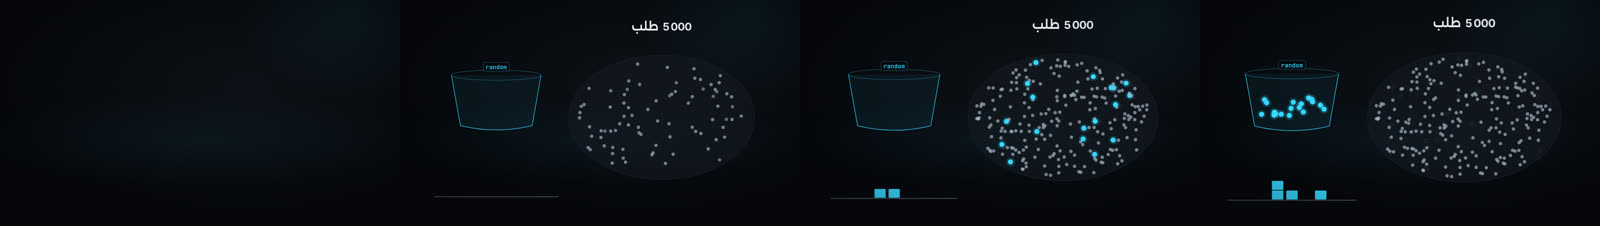
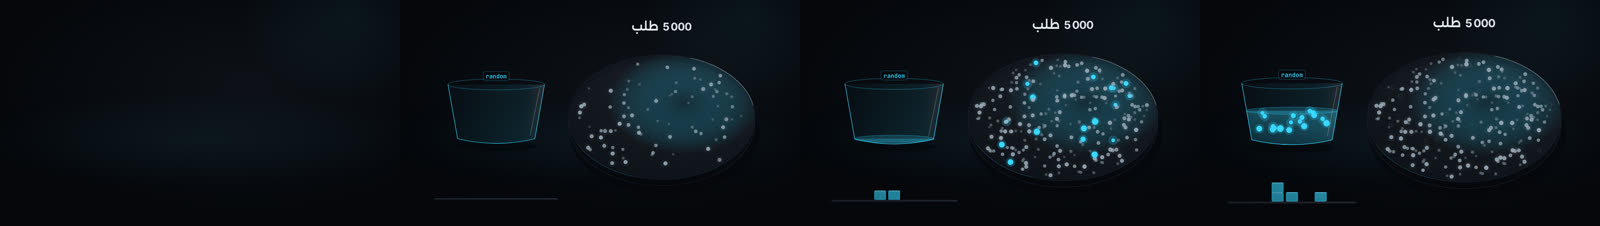
P7 dom-b: SampleScoop finished (glass dish, depth dots, beaker, assembling sampling distribution; D2: population 5 000 only; snap PASS det 0 qa 0, baselines pending-critic; perf lite 0.058 / standard 0.105 / hero 0.075 box s/frame; Arabic QA PASS)
Claude-Session: https://claude.ai/code/session_01VrU9wxU8GmuhdhWAAHnnQ8

diff --git a/studio/src/components/SampleScoop/SampleScoop.tsx b/studio/src/components/SampleScoop/SampleScoop.tsx
@@ -7,6 +7,10 @@
 // Numbers: only the population label (`population`, with its ref) is shown. The dots are decorative (D2 ruling 2): the dot
 // count stands for no quantity, `sample` is never displayed and does not set the dot count (CR-009: sample optional),
 // the histogram has no axis and no digits. Determinism: random(seed) only.
+// Look (04 1.2 / ADR-003 LK-F): a glass dish with a key rim light from the upper right, a seeded depth value per dot (size, tone and
+// halo of the near ones), a glass beaker whose liquid rises as the scoop lands, and the dots return to the pool after each mean
+// has dropped (a sample is put back: the draws are independent). DOM + SVG only (no WebGL): every FX tier renders it; the tier
+// changes the dot count (<= FX[tier].particles) and the glow radii.
 import React from 'react';
 import {random} from 'remotion';
 import {C, FONT, SIZE} from '../../tokens';
@@ -15,17 +19,17 @@ import {ease, presetFrames} from '../../type/reveal';
 import type {DcComponent, DcProps} from '../../spec/types';
 import type {Props} from './schema';
 import {isArabic} from '../../type/arabic';
-import {At, Chip, FitLabel, Stage, Svg, f24, fmtCount, glowBox, lerp, prog, progN, rim, type Pt} from '../_dom-b/kit';
+import {At, Chip, FitLabel, Stage, Svg, clamp01, dPath, f24, fmtCount, glowBox, lerp, partial, prog, progN, type Pt} from '../_dom-b/kit';
 
-const DOTS = 240; // decorative population sprites (<= FX.lite.particles); not a quantity
+const dotsFor = (tier: string) => (tier === 'lite' ? 240 : 360); // decorative population sprites (<= FX[tier].particles); not a quantity
 const PICK = 18; // decorative dots per scoop; not the sample size
 const BINS = 9;
 const STRATA = 3;
 const CLUSTERS = 8;
 
-type Dot = {p: Pt; v: number; band: number; cl: number};
+type Dot = {p: Pt; v: number; band: number; cl: number; z: number};
 
-const buildPop = (seed: number, method: Props['method'], c: Pt, rx: number, ry: number): {dots: Dot[]; centres: Pt[]} => {
+const buildPop = (seed: number, method: Props['method'], c: Pt, rx: number, ry: number, DOTS: number): {dots: Dot[]; centres: Pt[]} => {
   const r = (k: string) => random(`scoop:${seed}:${k}`);
   const centres: Pt[] = Array.from({length: CLUSTERS}, (_, i) => {
     const a = (2 * Math.PI * i) / CLUSTERS + r(`ca${i}`) * 0.5;
@@ -46,13 +50,14 @@ const buildPop = (seed: number, method: Props['method'], c: Pt, rx: number, ry: 
       cl = -1;
     }
     const band = Math.min(STRATA - 1, Math.floor(((p.y - (c.y - ry)) / (2 * ry)) * STRATA));
-    return {p, v: (p.x - (c.x - rx)) / (2 * rx), band, cl};
+    return {p, v: (p.x - (c.x - rx)) / (2 * rx), band, cl, z: r(`z${i}`)};
   });
   return {dots, centres};
 };
 
 /** Indices drawn in scoop k (deterministic per seed). */
 const drawIdx = (dots: Dot[], method: Props['method'], seed: number, k: number): number[] => {
+  const DOTS = dots.length;
   const r = (s: string) => random(`scoop:${seed}:draw${k}:${s}`);
   if (method === 'stratified') {
     const out: number[] = [];
@@ -87,12 +92,14 @@ export const SampleScoopView: React.FC<DcProps<Props>> = ({props, ctx}) => {
   const pc = {x: W * 0.68, y: labelH + (H - labelH) * 0.46};
   const rx = W * 0.27;
   const ry = (H - labelH) * 0.36;
-  const {dots, centres} = buildPop(props.seed, props.method, pc, rx, ry);
+  const {dots, centres} = buildPop(props.seed, props.method, pc, rx, ry, dotsFor(fx.id));
+  const gid = `sc${ctx.id.replace(/[^a-zA-Z0-9]/g, '')}`;
+  const gk = 1 + ctx.mod.glow;
   // cup + histogram (left)
-  const cupC = {x: W * 0.2, y: labelH + (H - labelH) * 0.3};
-  const cupW = Math.min(W * 0.26, 470);
+  const cupC = {x: W * 0.2, y: labelH + (H - labelH) * 0.36};
+  const cupW = Math.min(W * 0.28, 500);
   const cupH = cupW * 0.8;
-  const histY = labelH + (H - labelH) * 0.92;
+  const histY = labelH + (H - labelH) * 0.93;
   const histW = Math.min(W * 0.36, 640);
   const binW = histW / BINS;
   const blockH = Math.max(14, binW * 0.62);
@@ -114,7 +121,7 @@ export const SampleScoopView: React.FC<DcProps<Props>> = ({props, ctx}) => {
   const cupSlot = (j: number, m: number): Pt => {
     const r = (s: string) => random(`scoop:${props.seed}:cup:${j}:${s}`);
     const u = (j + 0.5) / m;
-    return {x: cupC.x + (u - 0.5) * cupW * 0.7 + (r('x') - 0.5) * cupW * 0.08, y: cupC.y + cupH * 0.12 + r('y') * cupH * 0.26};
+    return {x: cupC.x + (u - 0.5) * cupW * 0.7 + (r('x') - 0.5) * cupW * 0.08, y: cupC.y + cupH * 0.14 + r('y') * cupH * 0.26};
   };
   const dotR = Math.max(4, Math.min(W, H) * 0.0085);
   // histogram stacks
@@ -124,6 +131,13 @@ export const SampleScoopView: React.FC<DcProps<Props>> = ({props, ctx}) => {
     stacks.push({bin: d.bin, level: level[d.bin], t: d.t0 + drop});
     level[d.bin] += 1;
   }
+  // the active scoop: lift (m), and the return to the pool once its mean has dropped (not after the last draw)
+  const ai = active ? draws.indexOf(active) : -1;
+  const hasNext = ai >= 0 && ai < draws.length - 1;
+  const lq = active ? progN(ctx, active.t0 + lift, morph, ease.camera) : 0;
+  const rq = active && hasNext ? progN(ctx, active.t0 + drop + f24(2, fps), f24(9, fps), ease.camera) : 0;
+  const m = lq * (1 - rq);
+  const held = active ? clamp01(progN(ctx, active.t0, presetFrames('label', fps))) * (1 - rq) : 0;
   // the number is one LTR isolate; an Arabic unit follows it outside the isolate, a Latin unit stays inside (rule U1)
   const popText = props.population ? (() => {
     const n = fmtCount(props.population.value, props.population.decimals ?? 0);
@@ -131,12 +145,64 @@ export const SampleScoopView: React.FC<DcProps<Props>> = ({props, ctx}) => {
     return !u ? `⟦${n}⟧` : isArabic(u) ? `⟦${n}⟧ ${u}` : `⟦${n} ${u}⟧`;
   })() : null;
   const METHOD: Record<Props['method'], string> = {random: 'random', stratified: 'stratified', systematic: 'systematic', cluster: 'cluster'};
+  // dish geometry (a glass dish: floor shadow, side wall, top face, key rim light from the upper right)
+  const wall = ry * 0.1;
+  const rimArc = (a0: number, a1: number, n = 18) =>
+    dPath(Array.from({length: n + 1}, (_, i) => {
+      const a = lerp(a0, a1, i / n);
+      return {x: pc.x + Math.cos(a) * rx, y: pc.y + Math.sin(a) * ry};
+    }));
+  const order = dots.map((d, i) => ({i, z: d.z})).sort((a, b) => a.z - b.z || a.i - b.i);
+  // beaker geometry
+  const cy0 = cupC.y - cupH * 0.2;
+  const cy1 = cupC.y + cupH * 0.5;
+  const topHW = cupW / 2;
+  const botHW = cupW * 0.4;
+  const hwAt = (y: number) => lerp(topHW, botHW, (y - cy0) / (cy1 - cy0));
+  const liqTop = cy1 - cupH * 0.36 * m;
+  const liqSurf = liqTop <= cy1 - 2;
+  const lastStack = stacks.filter((s) => t >= s.t).pop();
+  const flash = lastStack ? 1 - clamp01((t - lastStack.t) / f24(6, fps)) : 0;
 
   return (
     <Stage ctx={ctx}>
       <Svg w={W} h={H}>
-        {/* the pool */}
-        <ellipse cx={pc.x} cy={pc.y} rx={rx} ry={ry} fill={`${C.panel}${hex(0.55)}`} stroke={C.grid} strokeWidth={2} opacity={ent} />
+        <defs>
+          <radialGradient id={`${gid}d`} cx="0.62" cy="0.38" r="0.75">
+            <stop offset="0" stopColor={C.signal} stopOpacity={0.12} />
+            <stop offset="0.55" stopColor={C.panel} stopOpacity={0.7} />
+            <stop offset="1" stopColor={C.ground} stopOpacity={0.92} />
+          </radialGradient>
+          <linearGradient id={`${gid}w`} x1="0" y1="0" x2="0" y2="1">
+            <stop offset="0" stopColor={C.panel} stopOpacity={0.95} />
+            <stop offset="1" stopColor={C.void} stopOpacity={0.95} />
+          </linearGradient>
+          <linearGradient id={`${gid}g`} x1="0" y1="0" x2="1" y2="0">
+            <stop offset="0" stopColor={C.signal} stopOpacity={0.03} />
+            <stop offset="0.8" stopColor={C.signal} stopOpacity={0.1} />
+            <stop offset="1" stopColor={C.ink} stopOpacity={0.14} />
+          </linearGradient>
+          <linearGradient id={`${gid}l`} x1="0" y1="0" x2="0" y2="1">
+            <stop offset="0" stopColor={C.signal} stopOpacity={0.3} />
+            <stop offset="1" stopColor={C.signal} stopOpacity={0.12} />
+          </linearGradient>
+          <clipPath id={`${gid}c`}>
+            <ellipse cx={pc.x} cy={pc.y} rx={rx} ry={ry} />
+          </clipPath>
+        </defs>
+        {/* the dish */}
+        <ellipse cx={pc.x + rx * 0.03} cy={pc.y + wall + ry * 0.16} rx={rx * 1.02} ry={ry * 0.98} fill={C.void} opacity={ent * 0.7} />
+        <ellipse cx={pc.x} cy={pc.y + wall} rx={rx} ry={ry} fill={`url(#${gid}w)`} stroke={C.grid} strokeWidth={2} opacity={ent} />
+        <ellipse cx={pc.x} cy={pc.y} rx={rx} ry={ry} fill={`url(#${gid}d)`} stroke={C.grid} strokeWidth={2} opacity={ent} />
+        <path d={rimArc(-1.25, -0.2)} fill="none" stroke={C.ink} strokeOpacity={0.4} strokeWidth={3} strokeLinecap="round" opacity={ent} />
+        <path d={rimArc(1.9, 2.7)} fill="none" stroke={C.signal} strokeOpacity={0.22} strokeWidth={2} strokeLinecap="round" opacity={ent} />
+        {props.method === 'stratified' ? (
+          <g clipPath={`url(#${gid}c)`} opacity={ent}>
+            {Array.from({length: STRATA}, (_, b) => (
+              <rect key={b} x={pc.x - rx} y={pc.y - ry + (b * 2 * ry) / STRATA} width={rx * 2} height={(2 * ry) / STRATA} fill={C.violet} fillOpacity={b % 2 ? 0.0 : 0.08} />
+            ))}
+          </g>
+        ) : null}
         {props.method === 'stratified'
           ? Array.from({length: STRATA - 1}, (_, b) => {
               const y = pc.y - ry + ((b + 1) * 2 * ry) / STRATA;
@@ -146,55 +212,88 @@ export const SampleScoopView: React.FC<DcProps<Props>> = ({props, ctx}) => {
           : null}
         {props.method === 'cluster'
           ? centres.map((c, i) => {
-              const hot = active && active.list.some((j) => dots[j].cl === i) && t >= active.t0;
-              return <ellipse key={i} cx={c.x} cy={c.y} rx={rx * 0.2} ry={ry * 0.2} fill="none" stroke={C.violet} strokeWidth={hot ? 3 : 1.5} opacity={ent * (hot ? 1 : 0.6)} />;
+              const hot = !!active && active.list.some((j) => dots[j].cl === i);
+              return <ellipse key={i} cx={c.x} cy={c.y} rx={rx * 0.2} ry={ry * 0.2} fill={C.violet} fillOpacity={hot ? 0.16 * held + 0.05 : 0.05} stroke={C.violet} strokeWidth={hot ? 3 : 1.5} opacity={ent * (hot ? 1 : 0.6)} />;
             })
           : null}
-        {dots.map((d, i) => {
+        {/* systematic: the sampling frame is a listed order; the k-th stride is traced through it */}
+        {props.method === 'systematic' && active && held > 0
+          ? (() => {
+              const pts = [...active.list].sort((a, b) => dots[a].band - dots[b].band || dots[a].v - dots[b].v).map((i) => dots[i].p);
+              return <path d={dPath(partial(pts, held))} fill="none" stroke={C.signal} strokeOpacity={0.3 * (1 - lq)} strokeWidth={1.5} strokeDasharray="3 7" />;
+            })()
+          : null}
+        {order.map(({i}) => {
+          const d = dots[i];
           const eI = prog(ctx, ctx.at + Math.floor((i % 24) * (fps / 24)), 'label');
-          const picked = active && active.idx.has(i);
-          if (!picked) return <circle key={i} cx={d.p.x} cy={d.p.y} r={dotR} fill={C.ink2} opacity={eI * 0.7} />;
+          const near = d.z > 0.72;
+          const r0 = dotR * (0.7 + 0.6 * d.z);
+          const picked = !!active && active.idx.has(i);
+          if (!picked || held <= 0) {
+            return (
+              <g key={i} opacity={eI}>
+                {near ? <circle cx={d.p.x} cy={d.p.y} r={r0 * 2.1} fill={C.ink2} opacity={0.05} /> : null}
+                <circle cx={d.p.x} cy={d.p.y} r={r0} fill={d.z > 0.4 ? C.ink2 : C.ink3} opacity={0.4 + 0.5 * d.z} />
+              </g>
+            );
+          }
           const a = active as (typeof draws)[number];
-          const hq = progN(ctx, a.t0, presetFrames('label', fps));
-          const mq = progN(ctx, a.t0 + lift, morph, ease.camera);
           const j = a.list.indexOf(i);
           const to = cupSlot(j, a.list.length);
-          const x = lerp(d.p.x, to.x, mq);
-          const y = lerp(d.p.y, to.y, mq) - Math.sin(mq * Math.PI) * ry * 0.35;
+          const x = lerp(d.p.x, to.x, m);
+          const y = lerp(d.p.y, to.y, m) - Math.sin(m * Math.PI) * ry * 0.35;
           return (
             <g key={i}>
-              {mq > 0 ? <circle cx={d.p.x} cy={d.p.y} r={dotR} fill="none" stroke={C.ink3} strokeWidth={1} opacity={0.6} /> : null}
-              <circle cx={x} cy={y} r={dotR * (1 + 0.5 * hq)} fill={C.signal} opacity={eI} />
-              <circle cx={x} cy={y} r={dotR * 2.6} fill={C.signal} opacity={0.18 * hq} />
+              {m > 0 ? <circle cx={d.p.x} cy={d.p.y} r={r0} fill="none" stroke={C.ink3} strokeWidth={1} opacity={0.6} /> : null}
+              <circle cx={x} cy={y} r={dotR * 2.8} fill={C.signal} opacity={0.2 * held * gk} />
+              <circle cx={x} cy={y} r={r0 * (1 + 0.5 * held)} fill={C.signal} opacity={eI} />
             </g>
           );
         })}
-        {/* the cup (glass beaker) */}
+        {/* the beaker: liquid behind the dots' lens, glass front over them */}
+        <ellipse cx={cupC.x} cy={cy1 + cupH * 0.1} rx={botHW * 1.05} ry={cupH * 0.06} fill={C.void} opacity={ent * 0.65} />
         <g opacity={ent}>
           <path
-            d={`M${cupC.x - cupW / 2} ${cupC.y - cupH * 0.2} L${cupC.x - cupW * 0.4} ${cupC.y + cupH * 0.5} Q${cupC.x} ${cupC.y + cupH * 0.62} ${cupC.x + cupW * 0.4} ${cupC.y + cupH * 0.5} L${cupC.x + cupW / 2} ${cupC.y - cupH * 0.2}`}
-            fill={`${C.signal}${hex(0.06)}`}
+            d={`M${cupC.x - topHW} ${cy0} L${cupC.x - botHW} ${cy1} Q${cupC.x} ${cy1 + cupH * 0.12} ${cupC.x + botHW} ${cy1} L${cupC.x + topHW} ${cy0}`}
+            fill={`url(#${gid}g)`}
             stroke={C.signal}
             strokeWidth={2.5}
             strokeLinejoin="round"
           />
-          <ellipse cx={cupC.x} cy={cupC.y - cupH * 0.2} rx={cupW / 2} ry={cupH * 0.07} fill="none" stroke={`${C.signal}${hex(0.6)}`} strokeWidth={1.5} />
+          {liqSurf ? (
+            <g>
+              <path d={`M${cupC.x - hwAt(liqTop)} ${liqTop} L${cupC.x - botHW} ${cy1} Q${cupC.x} ${cy1 + cupH * 0.12} ${cupC.x + botHW} ${cy1} L${cupC.x + hwAt(liqTop)} ${liqTop} Z`} fill={`url(#${gid}l)`} />
+              <ellipse cx={cupC.x} cy={liqTop} rx={hwAt(liqTop)} ry={cupH * 0.045} fill={C.signal} fillOpacity={0.18} stroke={C.signal} strokeOpacity={0.6} strokeWidth={1.5} />
+            </g>
+          ) : null}
+          <ellipse cx={cupC.x} cy={cy0} rx={topHW} ry={cupH * 0.07} fill="none" stroke={C.signal} strokeOpacity={0.65} strokeWidth={1.5} />
+          <path d={`M${cupC.x + topHW * 0.9} ${cy0 + cupH * 0.05} L${cupC.x + botHW * 0.88} ${cy1 - cupH * 0.05}`} stroke={C.ink} strokeOpacity={0.28} strokeWidth={3} strokeLinecap="round" fill="none" />
         </g>
-        {/* histogram of sample means: no axis, no digits */}
-        <line x1={cupC.x - histW / 2} x2={cupC.x + histW / 2} y1={histY} y2={histY} stroke={C.ink3} strokeWidth={2} opacity={ent} />
+        {/* the sampling distribution: a glass slab, no axis, no digits */}
+        <ellipse cx={cupC.x} cy={histY + 12} rx={histW * 0.55} ry={9} fill={C.void} opacity={ent * 0.7} />
+        <rect x={cupC.x - histW / 2} y={histY} width={histW} height={7} rx={3.5} fill={C.panel} stroke={C.grid} strokeWidth={1.5} opacity={ent} />
+        <line x1={cupC.x - histW / 2 + 4} x2={cupC.x + histW / 2 - 4} y1={histY + 0.5} y2={histY + 0.5} stroke={C.ink} strokeOpacity={0.22} strokeWidth={1.5} opacity={ent} />
         {stacks.map((s, k) => {
           const q = progN(ctx, s.t, presetFrames('impact', fps, true), ease.impact);
           if (t < s.t) return null;
           const x = cupC.x - histW / 2 + s.bin * binW + binW * 0.1;
           const y = histY - (s.level + 1) * (blockH + 3);
-          return <rect key={k} x={x} y={y - (1 - q) * blockH * 2} width={binW * 0.8} height={blockH} rx={3} fill={C.signal} opacity={Math.min(1, q * 1.4) * 0.85} style={{filter: undefined}} />;
+          const fresh = k === stacks.indexOf(lastStack as (typeof stacks)[number]) ? flash : 0;
+          const yy = y - (1 - q) * blockH * 2;
+          return (
+            <g key={k} opacity={Math.min(1, q * 1.4)}>
+              <rect x={x} y={yy} width={binW * 0.8} height={blockH} rx={3} fill={C.signal} fillOpacity={0.62 + 0.3 * fresh} stroke={C.signal} strokeWidth={1.5} style={{filter: undefined}} />
+              <line x1={x + 3} x2={x + binW * 0.8 - 3} y1={yy + 1.5} y2={yy + 1.5} stroke={C.ink} strokeOpacity={0.45} strokeWidth={2} />
+              {fresh > 0 ? <rect x={x - 3} y={yy - 3} width={binW * 0.8 + 6} height={blockH + 6} rx={5} fill="none" stroke={C.signal} strokeOpacity={0.5 * fresh * gk} strokeWidth={3} /> : null}
+            </g>
+          );
         })}
         {/* the falling mean marker */}
         {active && t >= active.t0 + lift + morph
           ? (() => {
               const q = progN(ctx, active.t0 + lift + morph, active.t0 + drop - (active.t0 + lift + morph), ease.camera);
               const x = cupC.x - histW / 2 + (active.bin + 0.5) * binW;
-              return q < 1 ? <line x1={cupC.x} y1={cupC.y + cupH * 0.55} x2={lerp(cupC.x, x, q)} y2={lerp(cupC.y + cupH * 0.55, histY - blockH, q)} stroke={C.signal} strokeWidth={2} strokeDasharray="4 6" opacity={0.8} /> : null;
+              return q < 1 ? <line x1={cupC.x} y1={cy1 + cupH * 0.05} x2={lerp(cupC.x, x, q)} y2={lerp(cy1 + cupH * 0.05, histY - blockH, q)} stroke={C.signal} strokeWidth={2} strokeDasharray="4 6" opacity={0.8} /> : null;
             })()
           : null}
       </Svg>
@@ -203,10 +302,9 @@ export const SampleScoopView: React.FC<DcProps<Props>> = ({props, ctx}) => {
           <FitLabel id={`${ctx.id}:pop`} text={popText} maxW={rx * 2} size={SIZE.sub} color={C.ink} weight={FONT.label.strong} style={{fontFeatureSettings: '"tnum" 1'}} />
         </At>
       ) : null}
-      <At x={cupC.x} y={cupC.y - cupH * 0.2 - SIZE.labelMin * 1.4} style={{opacity: ent}}>
-        <Chip id={`${ctx.id}:method`} text={METHOD[props.method]} color={C.signal} size={SIZE.labelMin} style={{boxShadow: glowBox(C.signal, fx, 0.25), outline: `1px solid ${C.grid}`}} />
+      <At x={cupC.x} y={cy0 - SIZE.labelMin * 1.4} style={{opacity: ent}}>
+        <Chip id={`${ctx.id}:method`} text={METHOD[props.method]} color={C.signal} size={SIZE.labelMin} style={{boxShadow: glowBox(C.signal, fx, 0.25 * gk), outline: `1px solid ${C.grid}`}} />
       </At>
-      <div style={{position: 'absolute', left: cupC.x - histW / 2, top: histY + 4, width: histW, height: 2, boxShadow: rim(0.1)}} />
     </Stage>
   );
 };

diff --git a/docs/p7/catalog_status/dom-b.md b/docs/p7/catalog_status/dom-b.md
@@ -9,7 +9,7 @@ Date: 2026-10-10. Author: motion-engineer (dom-b).
 | DeadlockCrossing | implemented (baselines pending-critic; snap PASS det 0, perf standard 0.153 / hero 0.149 box s/frame, Arabic QA PASS) | AT-13R no longer blocks (ADR-011 RV1) |
 | PageScan | implemented (baselines pending-critic; snap PASS det 0, perf lite 0.074 / standard 0.091 / hero 0.100 box s/frame, Arabic QA PASS) | AT-13R no longer blocks (ADR-011 RV1). Grid keeps to the top 74 % of its slot; the lower quarter is the counter lane for NumberCounter (12 500 `d:6.5:3`, 3 `d:6.5:2`). |
 | AppliedSteps | implemented (baselines pending-critic; snap PASS det 0, perf lite 0.062 / standard 0.113 / hero 0.134 box s/frame, Arabic QA PASS) | AT-13R no longer blocks (ADR-011 RV1). Film-strip list (glyph per kind, sprocket rails advance with the selection) plus a table miniature that cleans per step (column steps straighten a column, dedupe/filter collapse rows); a projector beam links them. No numbers drawn (row counts belong to NumberCounter, d:6.1:2, d:6.2:1). Narrow slots (< 1.4 : 1) drop the table. |
-| SampleScoop | deferred | AT-13R gate; data gap D2 |
+| SampleScoop | implemented (baselines pending-critic; snap PASS det 0 qa 0, perf lite 0.058 / standard 0.105 / hero 0.075 box s/frame, Arabic QA PASS) | AT-13R no longer blocks (ADR-011 RV1); D2 ruled (`reports/facts/p7_data_gaps.md` §3.3). Glass dish with a seeded population of dots (depth per dot; lite 240, standard/hero 360, decorative), a beaker that fills as the scoop lands, and a histogram of sample means that stacks up draw after draw; each scoop returns to the pool. `method` draws random / stratified bands / systematic stride through a listed order / whole clusters. Shows only the population label `5 000 طلب` (`s:S4:P11:0070`); `sample` is required by the frozen schema but never displayed and never sets a dot count (CR-009). No axis digits, no dot count. DOM + SVG only. |
 | ABSplit | deferred | AT-13R gate; data gap D1 |
 | WireTangle | deferred | AT-13R gate |
 | ModuleClusters | deferred | AT-13R gate |
